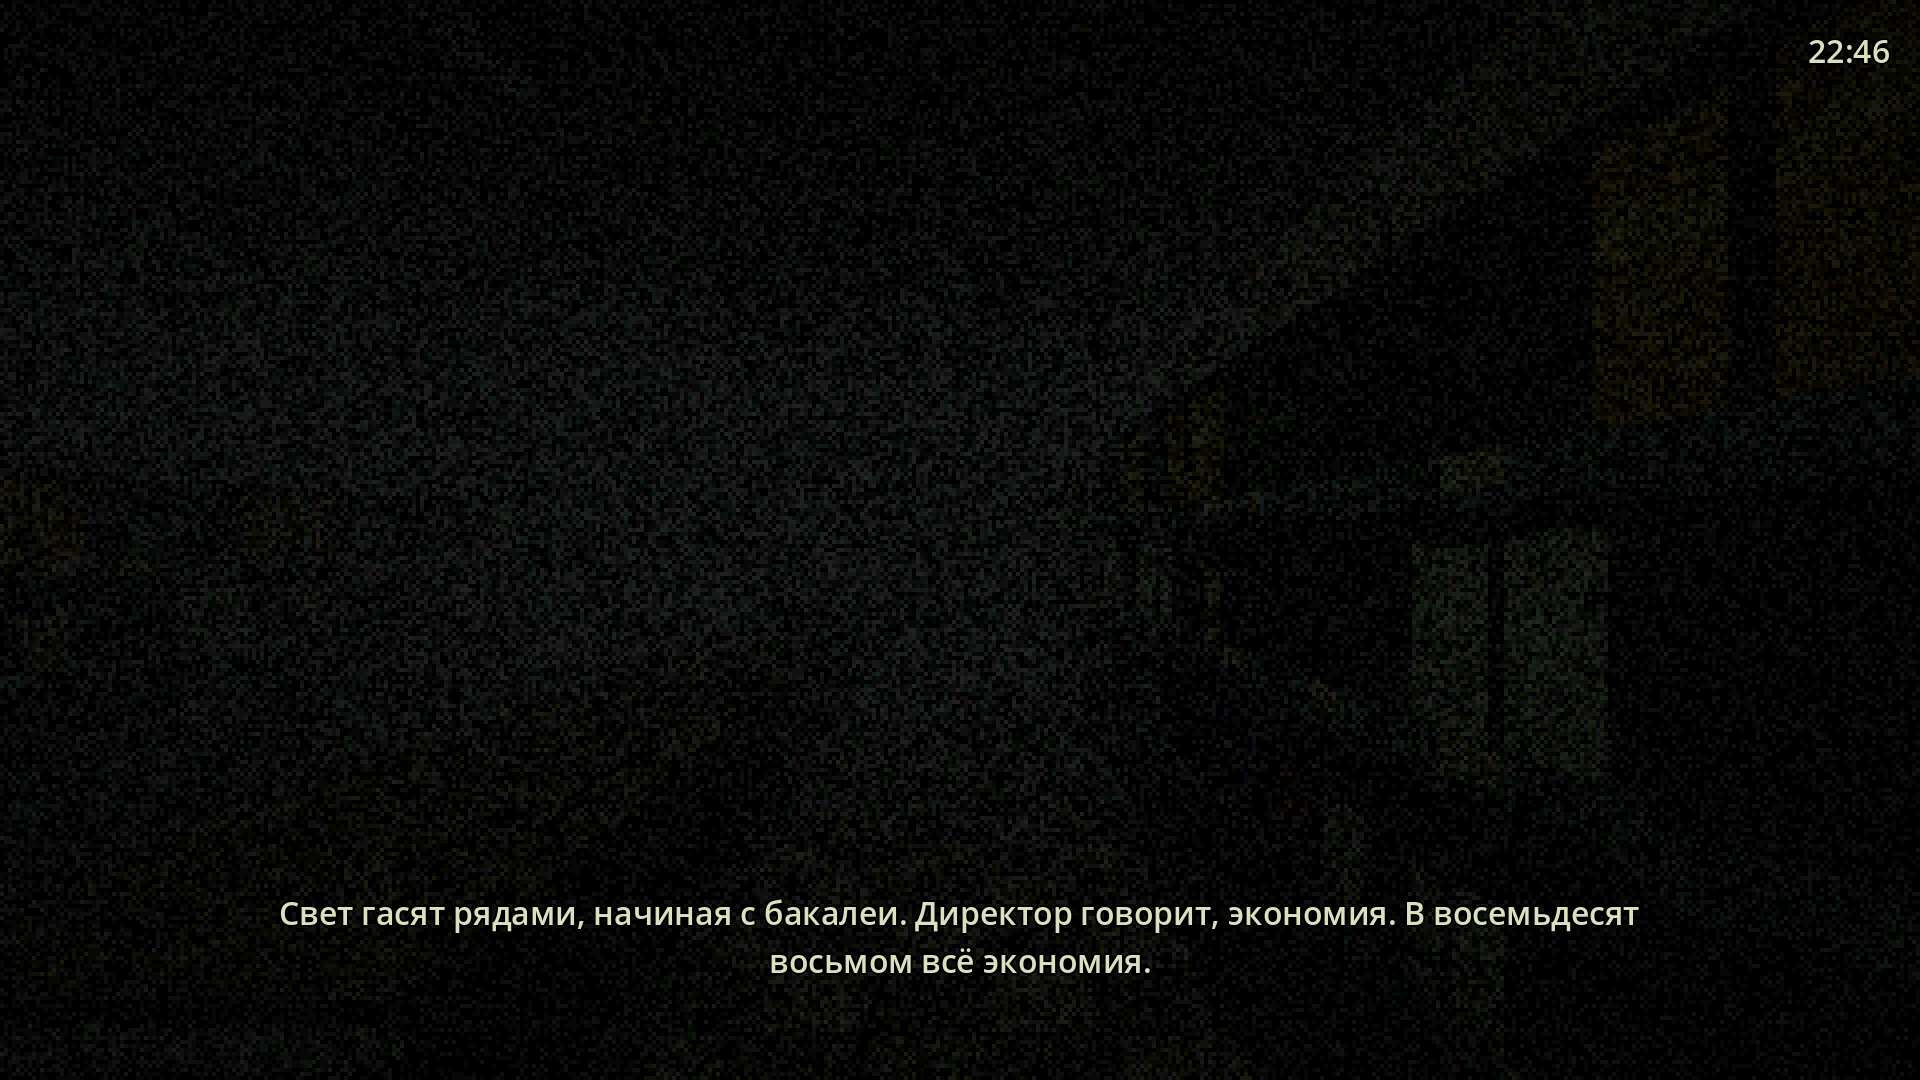
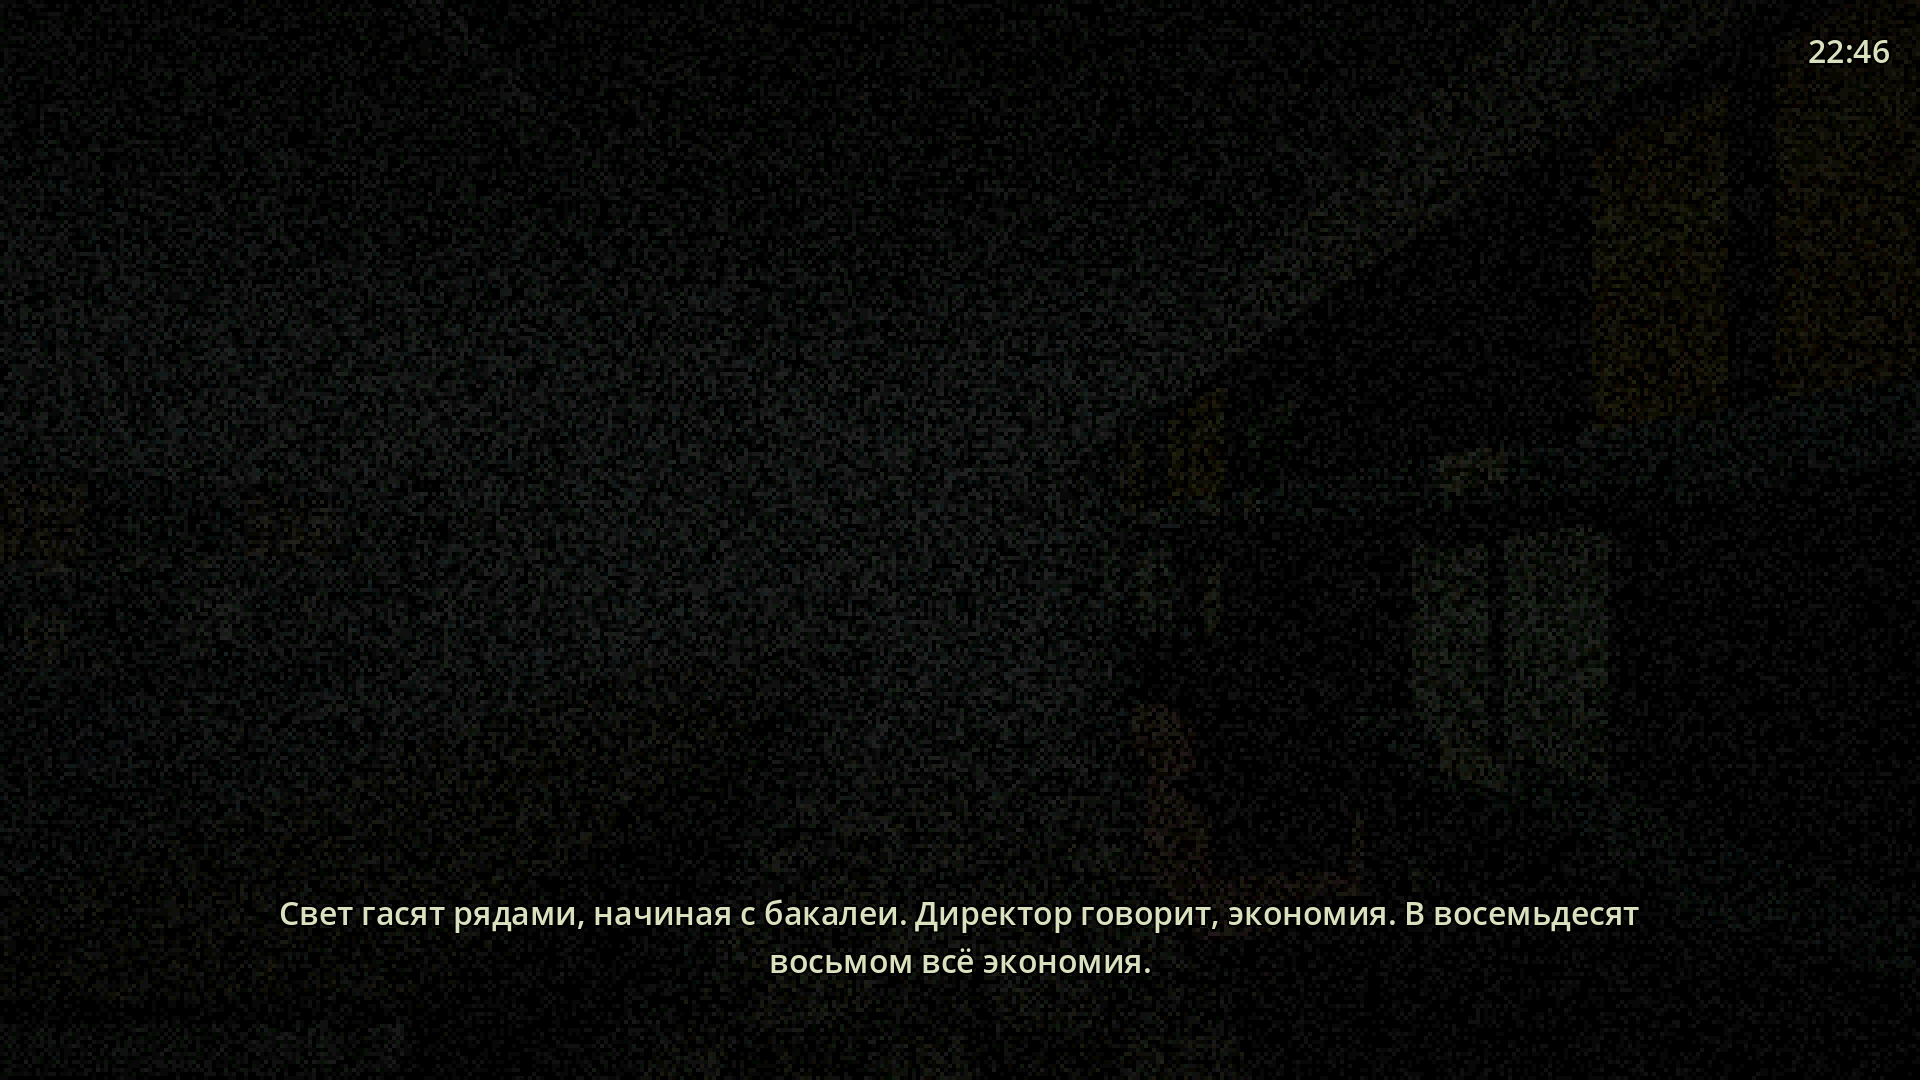
Hold the flashlight in Gordeev's right hand
The first-person view now shows his forearm, fist and the green dynamo
torch in the lower right; the beam comes from its lens, the squeeze lever
pumps while it shines, and a little light spills back onto the hand. The
hand sways with the mouse, bobs with the steps and pulls back from walls.

Claude-Session: https://claude.ai/code/session_011f8WXeCtcVzLbzhP1CxGKj

diff --git a/README.md b/README.md
@@ -28,7 +28,7 @@
 | Блокнот (пауза) | Tab | Back / Y |
 | Начать смену заново | R | Start |
 
-Вид от первого лица, фонарик светит туда, куда смотрит Гордеев. Esc освобождает мышь, клик по окну захватывает её снова.
+Вид от первого лица. Фонарик Гордеев держит в правой руке, она видна в кадре, и луч идёт из линзы фонарика туда, куда он смотрит. Пока фонарик горит, рычаг под ним качается. Esc освобождает мышь, клик по окну захватывает её снова.
 
 ## Что есть в срезе
 
@@ -70,7 +70,7 @@ project.godot            настройки: окно 1920×1080, Compatibility,
 scenes/main.tscn         одна сцена, всё остальное строится из кода
 scripts/main.gd          ночь: часы, расписание, улики, телефон, смерть, финал
 scripts/store.gd         планировка магазина, ряды света, лари, маршрут убийцы
-scripts/player.gd        Гордеев: вид от первого лица, фонарик, шум
+scripts/player.gd        Гордеев: вид от первого лица, рука с фонариком, шум
 scripts/killer.gd        убийца: обход, слух, зрение, погоня, поиск
 scripts/hud.gd           часы, субтитры, подсказки, блокнот, титры
 scripts/characters.gd    модели людей из коробок
